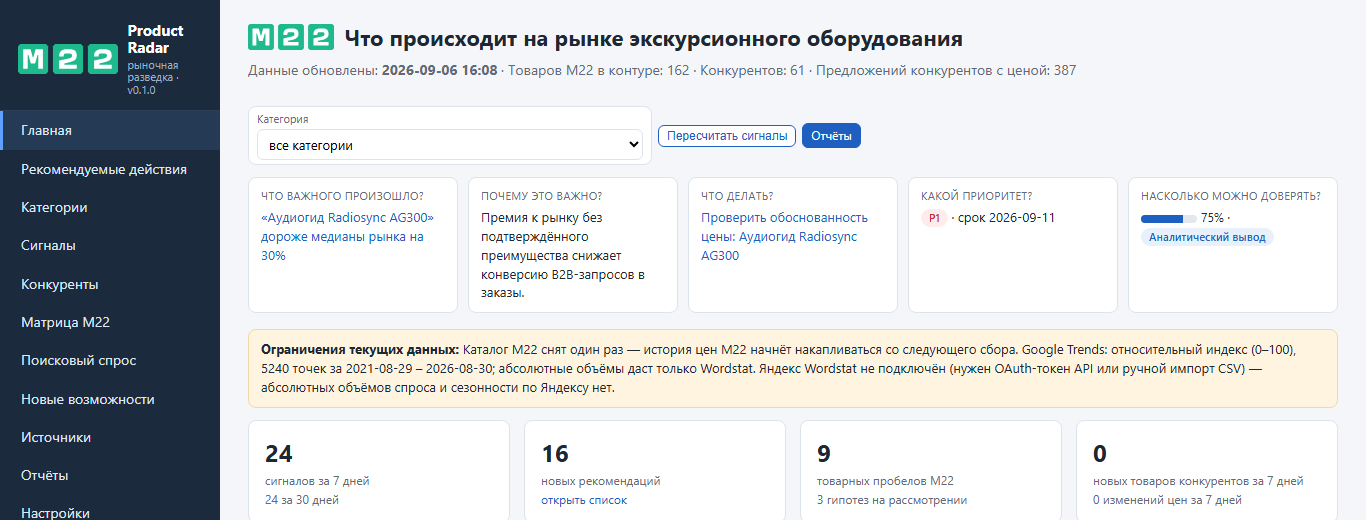
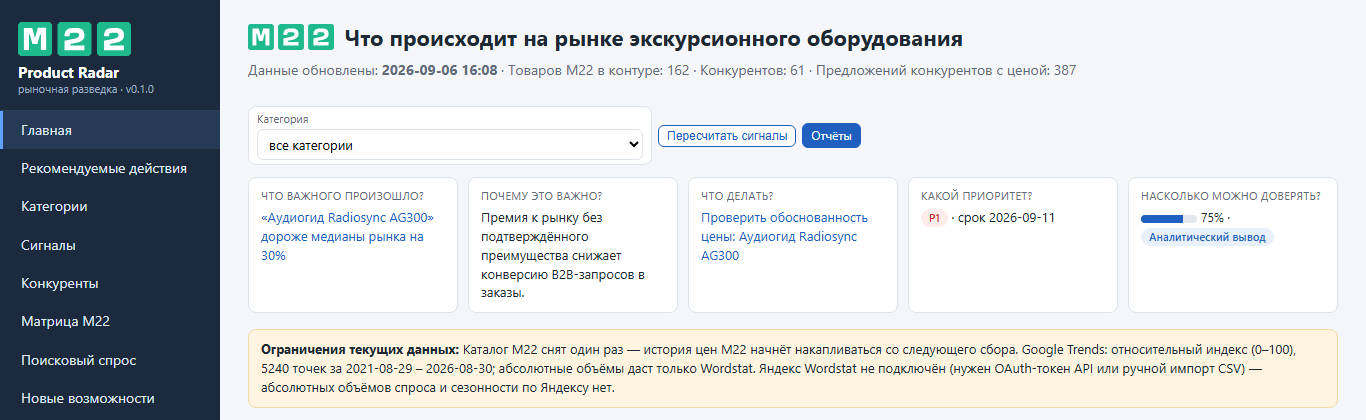
Sidebar brand layout

diff --git a/radar/web/static/style.css b/radar/web/static/style.css
@@ -6,9 +6,9 @@ a { color:var(--accent); text-decoration:none; } a:hover { text-decoration:under
 .layout { display:flex; min-height:100vh; }
 .sidebar { width:220px; flex:0 0 220px; background:#1b2a3d; color:#dfe7f1; padding:14px 0; position:sticky; top:0; height:100vh; overflow:auto; }
 .sidebar .brand { padding:8px 18px 14px; border-bottom:1px solid #2c3f57; }
-.sidebar .brand-link { display:flex; align-items:center; gap:10px; color:#fff; text-decoration:none; }
-.sidebar .brand-logo { height:30px; width:auto; flex:0 0 auto; }
-.sidebar .brand-text { font-weight:700; font-size:15px; line-height:1.15; }
+.sidebar .brand-link { display:flex; flex-direction:column; align-items:flex-start; gap:8px; color:#fff; text-decoration:none; }
+.sidebar .brand-logo { height:34px; width:auto; }
+.sidebar .brand-text { font-weight:700; font-size:15px; line-height:1.15; white-space:nowrap; }
 .sidebar .brand small { display:block; font-weight:400; color:#9fb0c5; font-size:11px; margin-top:2px; }
 .page-logo { height:26px; width:auto; vertical-align:-4px; margin-right:10px; }
 .sidebar nav a { display:block; padding:9px 18px; color:#dfe7f1; border-left:3px solid transparent; }
